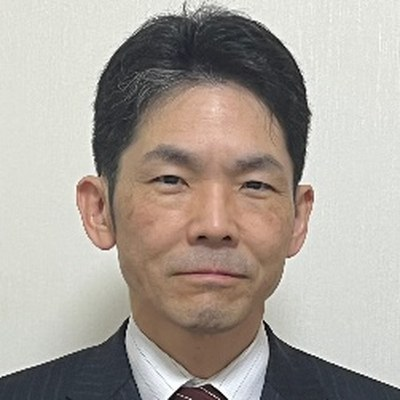
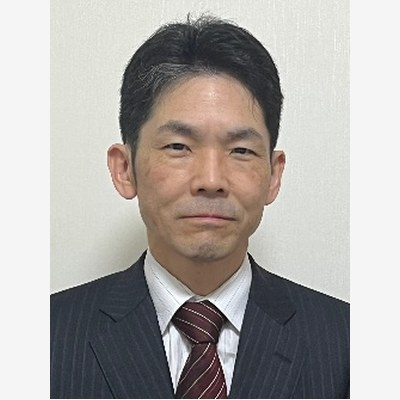
講師写真：顔全体が見えるよう余白付きで再処理・CSS調整

diff --git a/index.html b/index.html
@@ -490,7 +490,7 @@ body.high-contrast{filter:contrast(1.55) brightness(0.95)}
 .spk-grid{display:grid;grid-template-columns:repeat(auto-fill,minmax(260px,1fr));gap:24px;margin-top:8px}
 .spk-card{background:#fff;border-radius:20px;overflow:hidden;box-shadow:0 4px 20px rgba(0,0,0,.08);transition:all .25s;border:1.5px solid #e8f5e8;display:flex;flex-direction:column}
 .spk-card:hover{transform:translateY(-6px);box-shadow:0 14px 36px rgba(0,0,0,.13)}
-.spk-photo{width:100%;height:200px;object-fit:cover;object-position:top center}
+.spk-photo{width:100%;height:220px;object-fit:cover;object-position:center 15%}
 .spk-photo-placeholder{width:100%;height:200px;background:linear-gradient(135deg,#d1fae5,#bbf7d0);display:flex;align-items:center;justify-content:center;font-size:4rem}
 .spk-body{padding:20px;flex:1;display:flex;flex-direction:column;gap:6px}
 .spk-day{display:inline-block;font-size:.68rem;font-weight:900;padding:2px 12px;border-radius:20px;background:#fef3c7;color:#92400e;letter-spacing:.04em}
@@ -844,7 +844,7 @@ body.high-contrast{filter:contrast(1.55) brightness(0.95)}
     <div class="spk-grid reveal">
 
       <div class="spk-card">
-        <img class="spk-photo" src="speaker-kimura.jpg?v=2" alt="木村得尚先生" loading="lazy">
+        <img class="spk-photo" src="speaker-kimura.jpg?v=3" alt="木村得尚先生" loading="lazy">
         <div class="spk-body">
           <span class="spk-day">8/1 Part 1</span>
           <div class="spk-dept">🏥 形成外科</div>
@@ -857,7 +857,7 @@ body.high-contrast{filter:contrast(1.55) brightness(0.95)}
       </div>
 
       <div class="spk-card">
-        <img class="spk-photo" src="speaker-masuoka.jpg?v=2" alt="益岡弘先生" loading="lazy">
+        <img class="spk-photo" src="speaker-masuoka.jpg?v=3" alt="益岡弘先生" loading="lazy">
         <div class="spk-body">
           <span class="spk-day">8/1 Part 1</span>
           <div class="spk-dept">🏥 形成外科</div>
@@ -867,7 +867,7 @@ body.high-contrast{filter:contrast(1.55) brightness(0.95)}
       </div>
 
       <div class="spk-card">
-        <img class="spk-photo" src="speaker-ueda-y.jpg?v=2" alt="上田優輔先生" loading="lazy">
+        <img class="spk-photo" src="speaker-ueda-y.jpg?v=3" alt="上田優輔先生" loading="lazy">
         <div class="spk-body">
           <span class="spk-day">8/1 Part 1</span>
           <div class="spk-dept">🩺 産婦人科・臨床遺伝専門医</div>
@@ -880,7 +880,7 @@ body.high-contrast{filter:contrast(1.55) brightness(0.95)}
       </div>
 
       <div class="spk-card">
-        <img class="spk-photo" src="speaker-matsumoto.jpg?v=2" alt="松本学先生" loading="lazy">
+        <img class="spk-photo" src="speaker-matsumoto.jpg?v=3" alt="松本学先生" loading="lazy">
         <div class="spk-body">
           <span class="spk-day">8/1 Part 1</span>
           <div class="spk-dept">🧠 公認心理師</div>
@@ -898,7 +898,7 @@ body.high-contrast{filter:contrast(1.55) brightness(0.95)}
     <div class="spk-grid reveal">
 
       <div class="spk-card">
-        <img class="spk-photo" src="speaker-iwaki.jpg?v=2" alt="岩城忍先生" loading="lazy">
+        <img class="spk-photo" src="speaker-iwaki.jpg?v=3" alt="岩城忍先生" loading="lazy">
         <div class="spk-body">
           <span class="spk-day d2">8/2 Part 2</span>
           <div class="spk-dept">🗣 言語聴覚士</div>
@@ -911,7 +911,7 @@ body.high-contrast{filter:contrast(1.55) brightness(0.95)}
       </div>
 
       <div class="spk-card">
-        <img class="spk-photo" src="speaker-ueda-k.jpg?v=2" alt="上田晃一先生" loading="lazy">
+        <img class="spk-photo" src="speaker-ueda-k.jpg?v=3" alt="上田晃一先生" loading="lazy">
         <div class="spk-body">
           <span class="spk-day d2">8/2 Part 2</span>
           <div class="spk-dept">🏥 形成外科</div>
@@ -924,7 +924,7 @@ body.high-contrast{filter:contrast(1.55) brightness(0.95)}
       </div>
 
       <div class="spk-card">
-        <img class="spk-photo" src="speaker-yamamoto.jpg?v=2" alt="山本一郎先生" loading="lazy">
+        <img class="spk-photo" src="speaker-yamamoto.jpg?v=3" alt="山本一郎先生" loading="lazy">
         <div class="spk-body">
           <span class="spk-day d2">8/2 Part 2</span>
           <div class="spk-dept">🦷 歯科医師（矯正歯科）</div>
